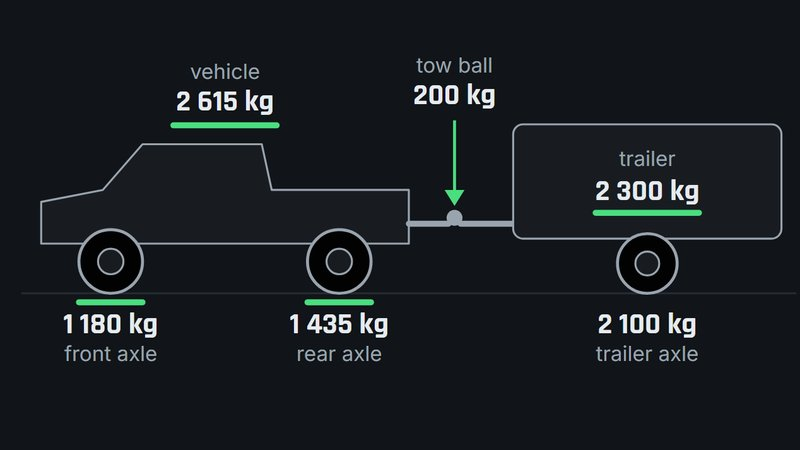
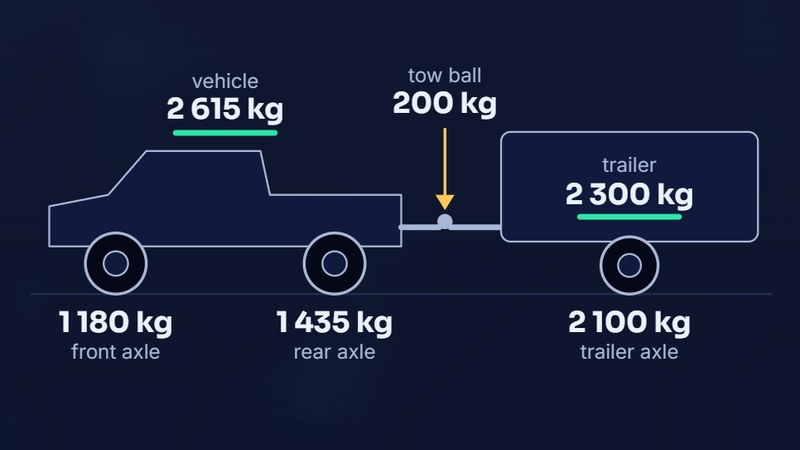
Towing Check card in the new look; circuit.js still option
Recaptured the Towing Check card in navy. circuit.js gains a
data-circuit="still" option (used by the towing checker); no change here.

Claude-Session: https://claude.ai/code/session_01SrKBiJbaQpZ1D1r5zsGLX4

diff --git a/js/circuit.js b/js/circuit.js
@@ -8,11 +8,13 @@
    the traces up around the mouse pointer. Both canvases get class "circuit-fx"
    (fixed behind the page, styled in each site's CSS), and <html> gets
    "fx-circuit" so the CSS can hide its static fallback tile. Under
-   prefers-reduced-motion the board is drawn once and stays still. */
+   prefers-reduced-motion, or on a page whose <html> has data-circuit="still",
+   the board is drawn once and stays still. */
 (() => {
   "use strict";
 
   const reduceMotion = window.matchMedia("(prefers-reduced-motion: reduce)").matches;
+  const still = document.documentElement.dataset.circuit === "still";
 
   function setUpCircuit() {
     const base = document.createElement("canvas");
@@ -229,7 +231,7 @@
         lastW = W; lastH = H;
       }, 200);
     });
-    if (reduceMotion) return;
+    if (reduceMotion || still) return;
 
     window.addEventListener("pointermove", (e) => { if (e.pointerType === "mouse") pointer = [e.clientX, e.clientY]; }, { passive: true });
     document.documentElement.addEventListener("pointerleave", () => { pointer = null; });

diff --git a/CLAUDE.md b/CLAUDE.md
@@ -77,7 +77,7 @@ Cards are built by `js/main.js` with `textContent`, so project text is never int
   - The Patient Monitor Smartwatch card and page (`patient-monitor/`) were removed on 2026-09-27; restore them from git history if needed. If it comes back, keep its "Hobby project, not a medical device" notice (`.notice`) and never describe it as clinically useful. Its code repo (`psyphin234/patient_Monitor`) is private.
 - **New pages:** copy `contact.html` as the template (head, header, compact logo, footer, scripts). Every page's header `<nav>` must list the same links, with `aria-current="page"` on the current one, and every page loads `js/main.js` and the GoatCounter tag.
 - **Contact email:** to hide it from spam bots, `contact.html` never contains a plain `info@psyphin.co.za`. Elements carry `data-user="info" data-domain="psyphin.co.za"` (three places), and `js/main.js` builds the address at runtime: `mailto:` on links, the visible text where `data-email="text"`, and `data-copy` on the button. To change the address, edit `data-user` in all three. Don't write a plain address anywhere in the HTML.
-- **Look and motion** ("deep space", since 2026-10-18, owner's request, the same as fuel.psyphin.co.za; the other tools still have the old black look until they're restyled): navy page, slow-drifting blue/violet light (`body::after`), and a glowing circuit board drawn by `js/circuit.js` on two fixed `canvas.circuit-fx` (traces routed to fit the screen, light pulses running along them, a glow around the mouse; ~30 fps, paused in a background tab). circuit.js adds `.fx-circuit` to `<html>`, which hides the static glowing circuit tile in `body::before` (the fallback without JavaScript). Cards and the contact card are translucent glass (`--glass` + backdrop blur) with a glowing top edge; buttons are cyan gradient pills with a sheen on hover; section headings are Sora capitals with a white-to-cyan gradient. Project pages put a dark band behind their text (`.section:has(.prose)`) so the circuit doesn't run through it. `.hero::before` is a soft blue/violet glow that fades in and slowly breathes behind the logo (clipped sideways so it can't widen a phone screen), which uses `mix-blend-mode: screen` so its black background disappears. The hero logo is kept small so the Tools cards show without scrolling (since 2026-10-18, owner's request: at most 420 px wide, 70% on phones; 320 px on the contact page's compact hero), with the first section pulled up close under it (`.hero + .section`); keep the `<img>` `sizes` attributes in step if these change. The header is sticky: `js/main.js` adds `body.scrolled` after 40 px, which darkens it and shows the `.brand` mark (shield + PsyPhin). Every page's header has the `.site-header-inner` > `.brand` + `.nav` structure. Cards fade up as they come into view (`.reveal` / `.is-visible`), with a fail-safe that shows them after 2 s. All motion is off for visitors who prefer reduced motion (the circuit is drawn once and stays still).
+- **Look and motion** ("deep space", since 2026-10-18, owner's request, the same as fuel.psyphin.co.za and towing.psyphin.co.za (2026-10-18); the other tools still have the old black look until they're restyled): navy page, slow-drifting blue/violet light (`body::after`), and a glowing circuit board drawn by `js/circuit.js` on two fixed `canvas.circuit-fx` (traces routed to fit the screen, light pulses running along them, a glow around the mouse; ~30 fps, paused in a background tab). circuit.js adds `.fx-circuit` to `<html>`, which hides the static glowing circuit tile in `body::before` (the fallback without JavaScript). Cards and the contact card are translucent glass (`--glass` + backdrop blur) with a glowing top edge; buttons are cyan gradient pills with a sheen on hover; section headings are Sora capitals with a white-to-cyan gradient. Project pages put a dark band behind their text (`.section:has(.prose)`) so the circuit doesn't run through it. `.hero::before` is a soft blue/violet glow that fades in and slowly breathes behind the logo (clipped sideways so it can't widen a phone screen), which uses `mix-blend-mode: screen` so its black background disappears. The hero logo is kept small so the Tools cards show without scrolling (since 2026-10-18, owner's request: at most 420 px wide, 70% on phones; 320 px on the contact page's compact hero), with the first section pulled up close under it (`.hero + .section`); keep the `<img>` `sizes` attributes in step if these change. The header is sticky: `js/main.js` adds `body.scrolled` after 40 px, which darkens it and shows the `.brand` mark (shield + PsyPhin). Every page's header has the `.site-header-inner` > `.brand` + `.nav` structure. Cards fade up as they come into view (`.reveal` / `.is-visible`), with a fail-safe that shows them after 2 s. All motion is off for visitors who prefer reduced motion (the circuit is drawn once and stays still).
 - **Colours/fonts:** CSS variables in `:root` at the top of `css/style.css`, the same values as the fuel site: `--bg` navy `#040817`, `--accent` cyan `#4cc9ff`, `--violet` `#7c5cff`. The hero logo and the header's brand icon blend into any background (`screen` / `lighten`), so `--bg` no longer has to match the logo's black.
 
 ## Conventions
@@ -158,7 +158,7 @@ Because this is the `psyphin234.github.io` **user site** with a custom domain, *
 
 - Lives at **https://towing.psyphin.co.za/** since 2026-10-05. It has its own custom domain (a `CNAME` file in its repo, plus the Afrihost `towing` CNAME), so it no longer inherits psyphin.co.za; the older `psyphin.co.za/sa-towing-check/` address 301-redirects to it. Repo `psyphin234/sa-towing-check`, local clone `E:\Claude_projects\tow_gvm_calc\sa-towing-check`, which has its own CLAUDE.md; the build brief is `E:\Claude_projects\tow_gvm_calc\SPEC.md`, kept out of the repo. **Do towing-checker work from that folder.**
 - Its header has a "← More PsyPhin tools" pill (same design as the fuel site's) linking to `https://psyphin.co.za/#tools`. Its favicon set is a copy of this site's; change both together.
-- Card image `assets/img/projects/sa-towing-check.jpg` is a crop of the checker's rig diagram (worked example plus illustrative weighbridge readings). Status: green "Actively maintained" (since 2026-10-08, the owner's call).
+- Card image `assets/img/projects/sa-towing-check.jpg` is a crop of the checker's rig diagram (worked example plus illustrative weighbridge readings), recaptured in the navy look on 2026-10-18 (headless Chrome at 2x, the panel's heading and table hidden). Status: green "Actively maintained" (since 2026-10-08, the owner's call).
 
 ### SA Fuel Price Preview
 
